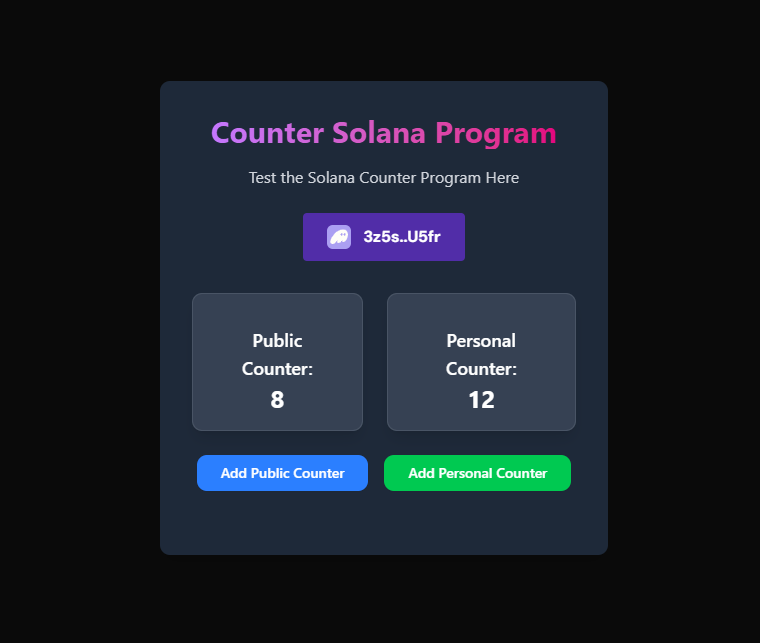
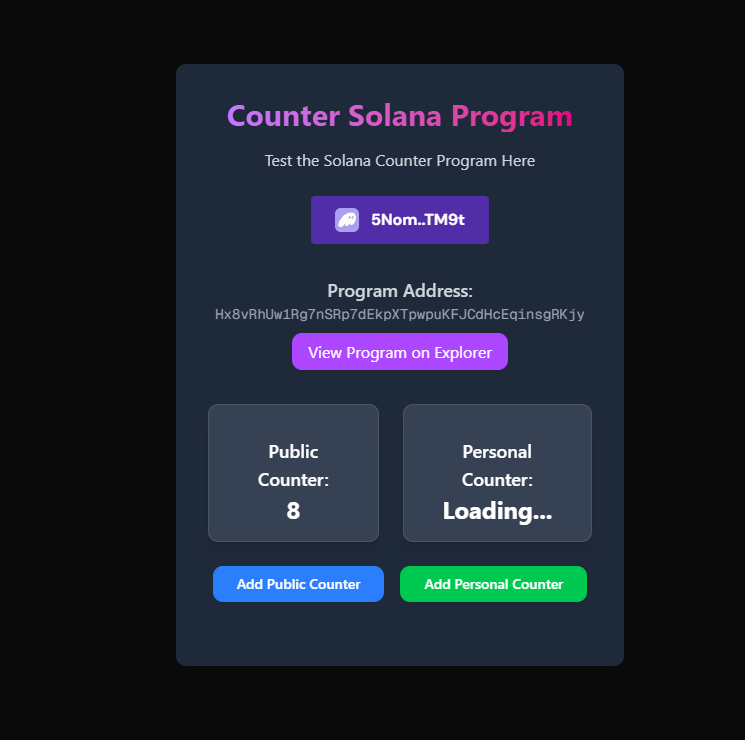
Update Frontend Display

Changed region(s): [[0.1852, 0.0622, 0.8644, 0.902]]

diff --git a/app/components/CounterProgram.tsx b/app/components/CounterProgram.tsx
@@ -31,7 +31,7 @@ export default function CounterProgram(){
     const [publicCounterValue, setPublicCounterValue] = useState<string| null>(null);
     const [personalCounterValue, setPersonalCounterValue] = useState<string | null>(null);
 
-    
+
     useEffect(() => {
         fetchPublicCounter();
         fetchPersonalCounter();
@@ -160,6 +160,21 @@ export default function CounterProgram(){
     return(
         <div className="text-center mt-8">
             <div className="flex flex-col items-center justify-center mb-8">
+            <div className="mb-6">
+                <p className="text-lg font-semibold text-gray-300">Program Address:</p>
+                <p className="text-sm font-mono text-gray-400">{programId.toString()}</p>
+                <div className="mt-4 mb-4">
+                    <a
+                        href={`https://explorer.solana.com/address/${programId.toString()}?cluster=devnet`}
+                        target="_blank"
+                        rel="noopener noreferrer"
+                        className="px-4 py-2 bg-purple-500 text-white rounded-lg hover:bg-purple-600"
+                    >
+                        View Program on Explorer
+                    </a>
+                </div>
+            </div>
+                
                 <div className="flex flex-col md:flex-row justify-center items-center gap-6 mb-6">
                     <Card className="px-6 py-4 bg-gray-700 text-white rounded-lg shadow-lg max-w-sm text-center">
                         <div className="mt-4">

diff --git a/SETUP.MD b/SETUP.MD
@@ -23,7 +23,7 @@ git clone https://github.com/monashblockchain/solana-counter-program.git
 cd solana-counter-program
 ```
 
-### 1.2 Initialize a new 
+### 1.2 Initialize a new smart contract
 
 Then, initialize a new keypair for your Smart Contract. This will generate a Private Key and Public Key for the deployed Solana Program.
 
